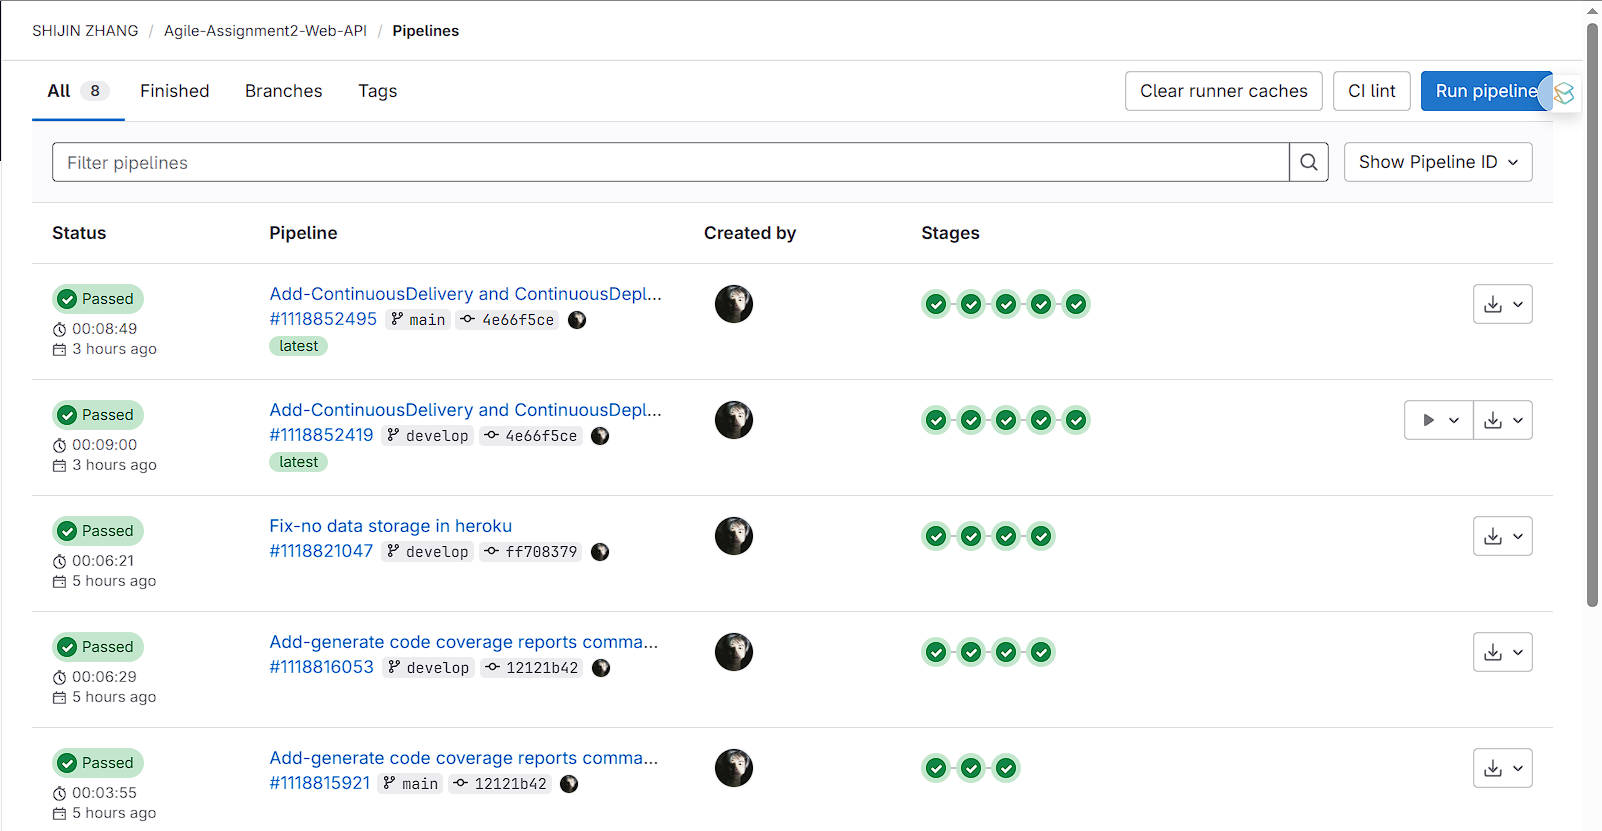
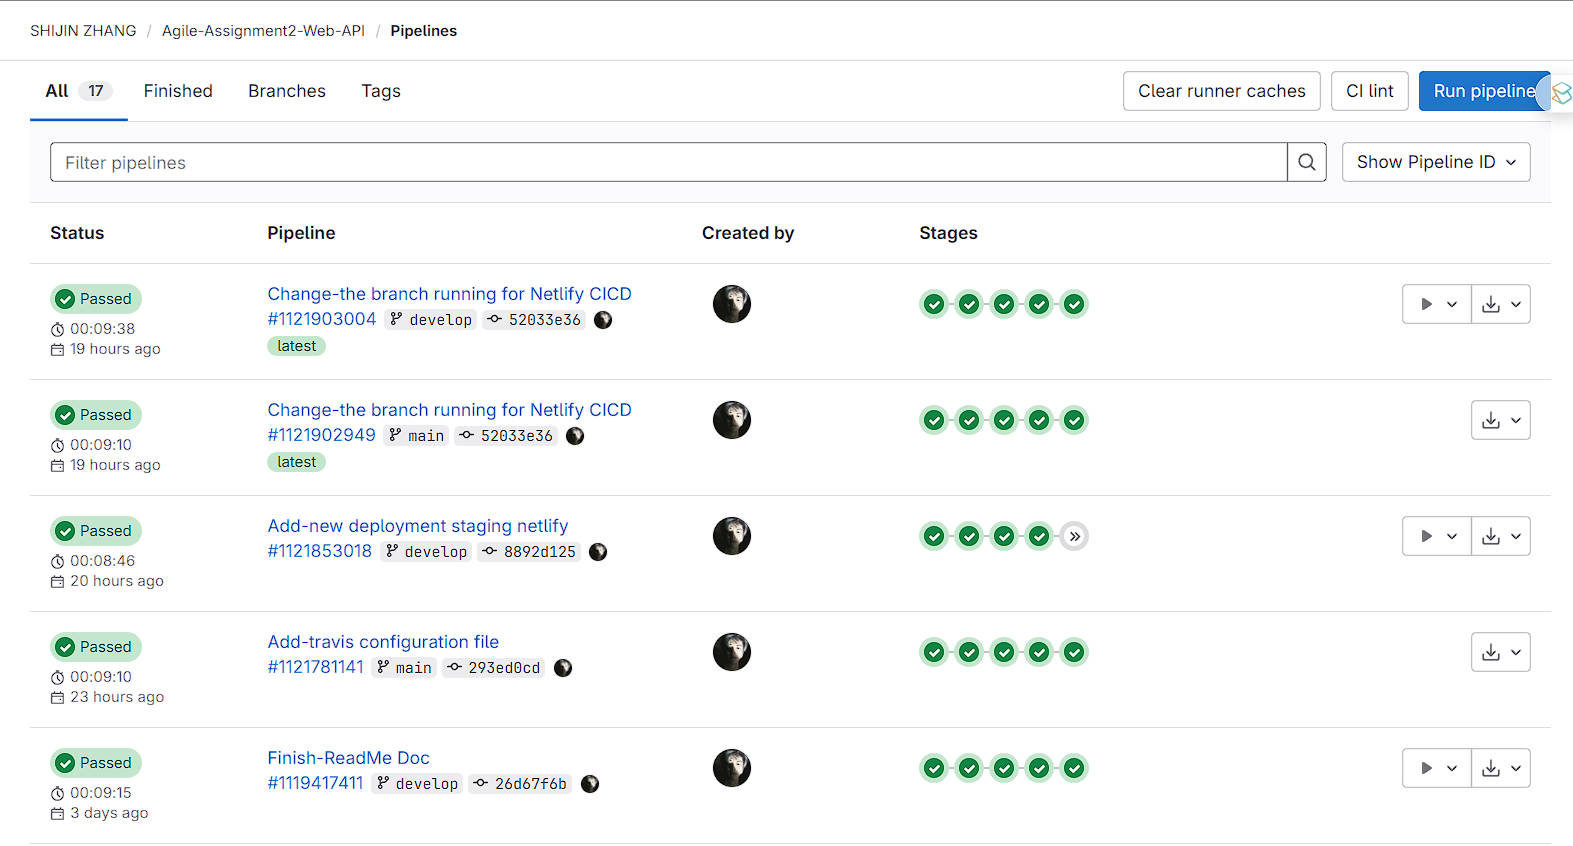
Finish-final ReadMe Doc content

diff --git a/README.md b/README.md
@@ -6,7 +6,8 @@ Links:
 + Coveralls: https://coveralls.io/github/Dovis01/Agile-Assignment2-Web-API
 + Gitlab: https://gitlab.com/Dovis01/agile-assignment2-web-api
 + Github: https://github.com/Dovis01/Agile-Assignment2-Web-API
-+ [![Coverage Status](https://coveralls.io/repos/github/Dovis01/Agile-Assignment2-Web-API/badge.svg?branch=main)](https://coveralls.io/github/Dovis01/Agile-Assignment2-Web-API?branch=main)
++ Netlify: https://app.netlify.com/teams/zsj1364226740/overview
++ [![Coverage Status](https://coveralls.io/repos/github/Dovis01/Agile-Assignment2-Web-API/badge.svg?branch=main)](https://coveralls.io/github/Dovis01/Agile-Assignment2-Web-API?branch=main)  [![Netlify Status](https://api.netlify.com/api/v1/badges/110d7dc8-a290-4322-8715-dfdabd300e89/deploy-status)](https://app.netlify.com/sites/peppy-lokum-ce89b7/deploys) [![Build Status](https://app.travis-ci.com/liang765407782/sjz-coveralls.svg?branch=main)](https://app.travis-ci.com/liang765407782/sjz-coveralls)
 
 ## API endpoints.
 
@@ -388,11 +389,21 @@ Links:
 
 https://agile-web-api-ca2-staging-zsj-fd0f5b4f395b.herokuapp.com/api/movies
 https://agile-web-api-ca2-staging-zsj-fd0f5b4f395b.herokuapp.com/api/users
+https://agile-web-api-ca2-staging-zsj-fd0f5b4f395b.herokuapp.com/api/movies/tmdb/discover?page=1
+
+Evidence:
+
+![](./images/PostmanHerokuStaging.jpg)
 
 ##### Production Server:
 
 https://agile-web-api-ca2-produc-zsj-215579e0f1c1.herokuapp.com/api/movies
 https://agile-web-api-ca2-produc-zsj-215579e0f1c1.herokuapp.com/api/users
+https://agile-web-api-ca2-produc-zsj-215579e0f1c1.herokuapp.com/api/movies/tmdb/discover?page=1
+
+Evidence:
+
+![](./images/PostmanHerokuProduction.jpg)
 
 #### CI CD：
 
@@ -404,8 +415,9 @@ https://agile-web-api-ca2-produc-zsj-215579e0f1c1.herokuapp.com/api/users
 #### Istanbul Generated Code Coverage Reports:
 
 ```shell
-------------------------------------------------------|---------|----------|---------|---------|----
-File                                                  | % Stmts | % Branch | % Funcs | % Lines |     ------------------------------------------------------|---------|----------|---------|---------|----
+------------------------------------------------------|---------|----------|---------|---------|
+File                                                  | % Stmts | % Branch | % Funcs | % Lines |
+------------------------------------------------------|---------|----------|---------|---------|
 All files                                             |   96.94 |    70.52 |   99.04 |   99.09 |                                          
  moviesApiAssignment                                  |   97.67 |       75 |     100 |   97.61 |                                          
   index.js                                            |   97.67 |       75 |     100 |   97.61 |                                       
@@ -460,7 +472,8 @@ All files                                             |   96.94 |    70.52 |   9
  moviesApiAssignment/tests/functional/api/toWatchList |    98.5 |    59.45 |     100 |     100 |                                          
   index.js                                            |    98.5 |    59.45 |     100 |     100 |                                   
  moviesApiAssignment/tests/functional/api/users       |   98.96 |    54.28 |     100 |     100 |                                          
-  index.js                                            |   98.96 |    54.28 |     100 |     100 |     ------------------------------------------------------|---------|----------|---------|---------|----
+  index.js                                            |   98.96 |    54.28 |     100 |     100 |
+------------------------------------------------------|---------|----------|---------|---------|
 ```
 
 #### Coveralls Server：
@@ -476,6 +489,8 @@ Visit this coveralls server website to check Code Coverage Reports for the tests
 `package.json` : https://github.com/Dovis01/Agile-Assignment2-Web-API/blob/main/package.json
 
 `.gitlab-ci.yml`: https://github.com/Dovis01/Agile-Assignment2-Web-API/blob/main/.gitlab-ci.yml
+
+`.travis.yml`: https://github.com/Dovis01/Agile-Assignment2-Web-API/blob/main/.travis.yml
 
 ###### Sample code for package.json :
 
@@ -516,10 +531,49 @@ test_api:
 ...    
 ```
 
+###### Sample code for .travis.yml :
+
+```yaml
+...
+before_script:
+  - npm run clean
+  - npm run build
+
+script:
+  - npm test
+
+after_success:
+  - npm run coverage
+```
+
+
+
+#### Travis CI Platform:
+
+I have added a new CI method for uploading the Code Coverage Reports by  Travis CI.
+`.travis.yml`: https://github.com/Dovis01/Agile-Assignment2-Web-API/blob/main/.travis.yml
+
+![](./images/Travis.png)
+
+
+
+#### Netlify Deployment Platform:
+
+I have deployed some endpoints into the Netlify platform as new deployment platform additionally.
+
+![](./images/Netlify1.jpg)
+
+![](./images/Netlify2.jpg)
+
+
+
 #### Swagger Web APIs Document:
 
 When this movies-api server is running, you can visit this api server's document by visiting swagger.
 
-- Link: https://agile-web-api-ca2-produc-zsj-215579e0f1c1.herokuapp.com/api-docs/
+- Link: 
+  - https://agile-web-api-ca2-produc-zsj-215579e0f1c1.herokuapp.com/api-docs/
+  - https://agile-web-api-ca2-staging-zsj-fd0f5b4f395b.herokuapp.com/api-docs/
+
 
 ![](./images/SwaggerAPI.png)
